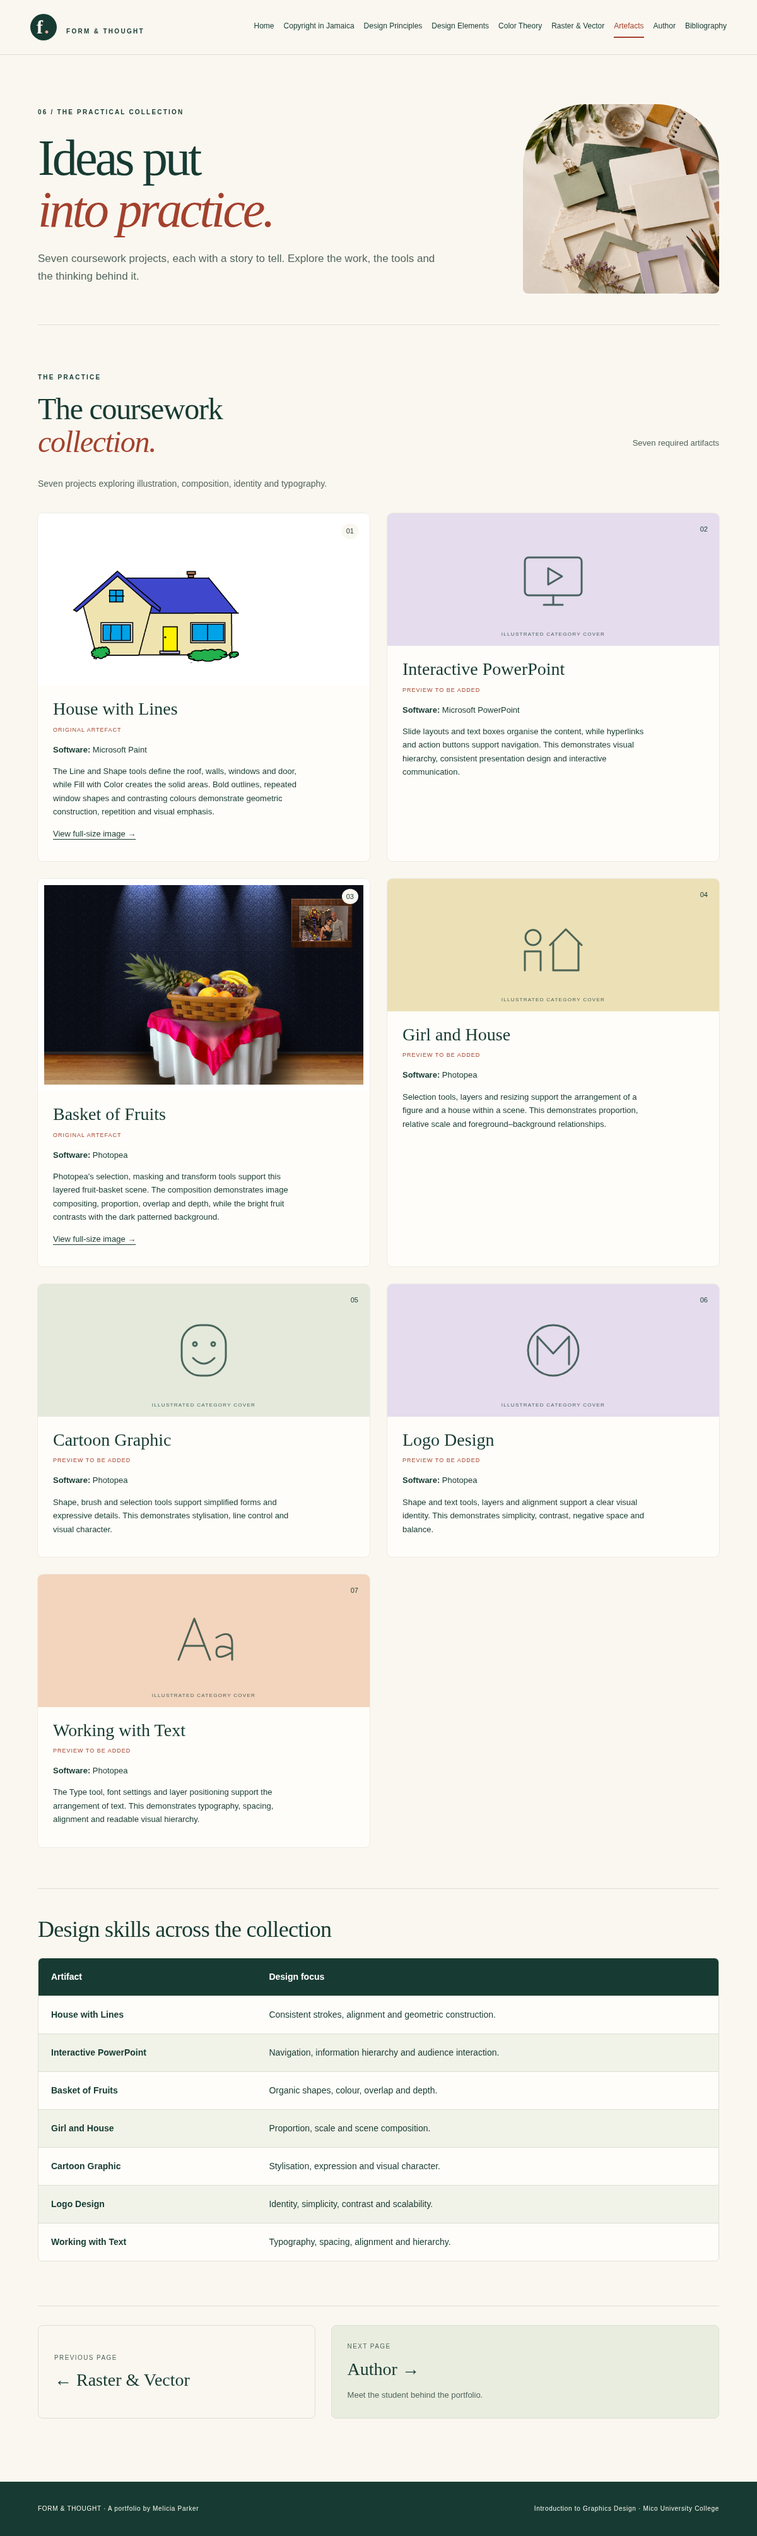
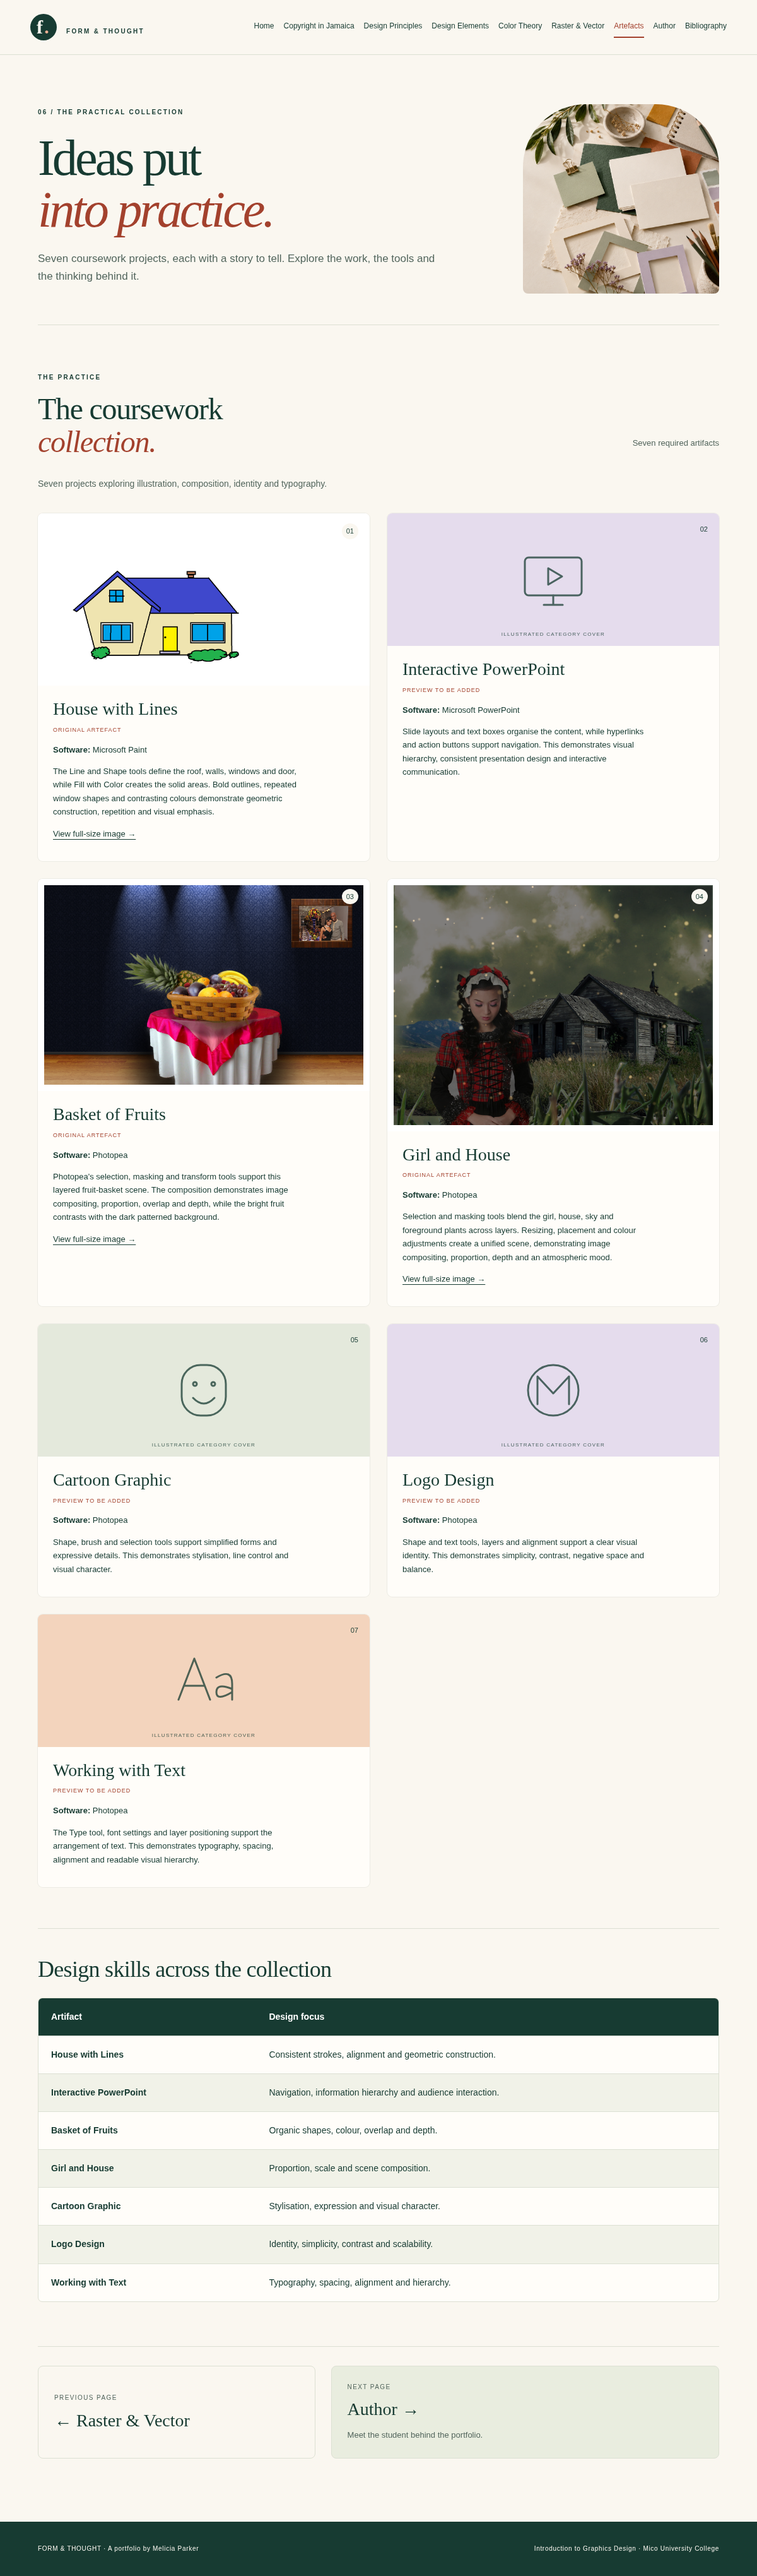
Add Girl and House Photopea artefact

diff --git a/portfolio/artefacts.html b/portfolio/artefacts.html
@@ -1,1 +1,1 @@
-<!doctype html><html lang="en"><head><meta charset="utf-8"><meta name="viewport" content="width=device-width, initial-scale=1"><meta name="description" content="Graphics design portfolio exploring theory and practical coursework."><title>Artefacts · Form &amp; Thought</title><link rel="stylesheet" href="./assets/style.css"><script src="./assets/app.js" defer></script></head><body class="page-artefacts"><a class="skip" href="#main">Skip to content</a><header><a class="brand" href="index.html"><span class="brand-mark" aria-hidden="true">f<span>.</span></span> FORM &amp; THOUGHT</a><button class="menu" aria-controls="navigation" aria-expanded="false">Menu</button><nav id="navigation" aria-label="Main navigation"><a href="index.html">Home</a><a href="copyright.html">Copyright in Jamaica</a><a href="principles.html">Design Principles</a><a href="elements.html">Design Elements</a><a href="color.html">Color Theory</a><a href="raster-vector.html">Raster & Vector</a><a href="artefacts.html" aria-current="page">Artefacts</a><a href="author.html">Author</a><a href="bibliography.html">Bibliography</a></nav></header><main id="main"><section class="page-heading"><div class="page-heading-copy"><p class="eyebrow">06 / THE PRACTICAL COLLECTION</p><h1>Ideas put<br><em>into practice.</em></h1><p class="lede">Seven coursework projects, each with a story to tell. Explore the work, the tools and the thinking behind it.</p></div><figure class="page-photo"><img src="assets/banners/artefacts.png" alt="Blank frames and drawing tools arranged for creative work." width="1672" height="941" decoding="async"></figure></section><section><div class="section-head"><div><p class="eyebrow">THE PRACTICE</p><h2 id="coursework">The coursework<br><em>collection.</em></h2></div><p>Seven required artifacts</p></div><p class="collection-note">Seven projects exploring illustration, composition, identity and typography.</p><div class="artifact-grid"><article class="artifact artifact-uploaded"><a class="artifact-image-link" href="./assets/Melicia%20house%20Intro%20to%20graphics%20activity%201.png" target="_blank" rel="noopener" aria-label="Open House with Lines at full size"><img class="artifact-image" src="./assets/Melicia%20house%20Intro%20to%20graphics%20activity%201.png" alt="House illustration with a blue roof, pale yellow walls, blue windows, a yellow door and green shrubs." width="1574" height="780" loading="lazy" decoding="async"></a><span class="number">01</span><h3>House with Lines</h3><p class="status">Original artefact</p><p class="artifact-software"><strong>Software:</strong> Microsoft Paint</p><p>The Line and Shape tools define the roof, walls, windows and door, while Fill with Color creates the solid areas. Bold outlines, repeated window shapes and contrasting colours demonstrate geometric construction, repetition and visual emphasis.</p><p><a href="./assets/Melicia%20house%20Intro%20to%20graphics%20activity%201.png" target="_blank" rel="noopener">View full-size image &rarr;</a></p></article><article class="artifact"><div class="artifact-cover cover-2"><svg viewBox="0 0 120 120" aria-hidden="true" fill="none" stroke="currentColor" stroke-width="3" stroke-linecap="round" stroke-linejoin="round"><rect x="15" y="25" width="90" height="60" rx="6"/><path d="M45 100h30M60 85v15M52 42l22 13-22 13Z"/></svg><span class="preview-label">Illustrated category cover</span></div><span class="number">02</span><h3>Interactive PowerPoint</h3><p class="status">Preview to be added</p><p class="artifact-software"><strong>Software:</strong> Microsoft PowerPoint</p><p>Slide layouts and text boxes organise the content, while hyperlinks and action buttons support navigation. This demonstrates visual hierarchy, consistent presentation design and interactive communication.</p></article><article class="artifact artifact-uploaded"><a class="artifact-image-link" href="./assets/Final%20Basket%20of%20Fruit%20Artifact.png" target="_blank" rel="noopener" aria-label="Open Basket of Fruits at full size"><img class="artifact-image artifact-image--basket" src="./assets/Final%20Basket%20of%20Fruit%20Artifact.png" alt="Fruit basket arranged on a red-and-white covered table against dark patterned wallpaper, with overhead lighting and a framed photograph." width="1920" height="1200" loading="lazy" decoding="async"></a><span class="number">03</span><h3>Basket of Fruits</h3><p class="status">Original artefact</p><p class="artifact-software"><strong>Software:</strong> Photopea</p><p>Photopea's selection, masking and transform tools support this layered fruit-basket scene. The composition demonstrates image compositing, proportion, overlap and depth, while the bright fruit contrasts with the dark patterned background.</p><p><a href="./assets/Final%20Basket%20of%20Fruit%20Artifact.png" target="_blank" rel="noopener">View full-size image &rarr;</a></p></article><article class="artifact"><div class="artifact-cover cover-4"><svg viewBox="0 0 120 120" aria-hidden="true" fill="none" stroke="currentColor" stroke-width="3" stroke-linecap="round" stroke-linejoin="round"><path d="M55 60l25-25 25 25M60 55v45h40V55M15 100V70h25v30"/><circle cx="28" cy="48" r="12"/></svg><span class="preview-label">Illustrated category cover</span></div><span class="number">04</span><h3>Girl and House</h3><p class="status">Preview to be added</p><p class="artifact-software"><strong>Software:</strong> Photopea</p><p>Selection tools, layers and resizing support the arrangement of a figure and a house within a scene. This demonstrates proportion, relative scale and foreground–background relationships.</p></article><article class="artifact"><div class="artifact-cover cover-5"><svg viewBox="0 0 120 120" aria-hidden="true" fill="none" stroke="currentColor" stroke-width="3" stroke-linecap="round" stroke-linejoin="round"><rect x="25" y="20" width="70" height="80" rx="30"/><circle cx="46" cy="50" r="3"/><circle cx="75" cy="50" r="3"/><path d="M43 72q17 18 34 0"/></svg><span class="preview-label">Illustrated category cover</span></div><span class="number">05</span><h3>Cartoon Graphic</h3><p class="status">Preview to be added</p><p class="artifact-software"><strong>Software:</strong> Photopea</p><p>Shape, brush and selection tools support simplified forms and expressive details. This demonstrates stylisation, line control and visual character.</p></article><article class="artifact"><div class="artifact-cover cover-6"><svg viewBox="0 0 120 120" aria-hidden="true" fill="none" stroke="currentColor" stroke-width="3" stroke-linecap="round" stroke-linejoin="round"><circle cx="60" cy="60" r="40"/><path d="M35 82V38l25 27 25-27v44"/></svg><span class="preview-label">Illustrated category cover</span></div><span class="number">06</span><h3>Logo Design</h3><p class="status">Preview to be added</p><p class="artifact-software"><strong>Software:</strong> Photopea</p><p>Shape and text tools, layers and alignment support a clear visual identity. This demonstrates simplicity, contrast, negative space and balance.</p></article><article class="artifact"><div class="artifact-cover cover-7"><svg viewBox="0 0 120 120" aria-hidden="true" fill="none" stroke="currentColor" stroke-width="3" stroke-linecap="round" stroke-linejoin="round"><path d="M20 90l25-65 25 65M30 68h30M80 55q25-15 25 10v25M105 73q-25-10-25 5t25 0"/></svg><span class="preview-label">Illustrated category cover</span></div><span class="number">07</span><h3>Working with Text</h3><p class="status">Preview to be added</p><p class="artifact-software"><strong>Software:</strong> Photopea</p><p>The Type tool, font settings and layer positioning support the arrangement of text. This demonstrates typography, spacing, alignment and readable visual hierarchy.</p></article></div></section><section class="learning-section"><h2>Design skills across the collection</h2><div class="table-wrap"><table><thead><tr><th scope="col">Artifact</th><th scope="col">Design focus</th></tr></thead><tbody><tr><td>House with Lines</td><td>Consistent strokes, alignment and geometric construction.</td></tr><tr><td>Interactive PowerPoint</td><td>Navigation, information hierarchy and audience interaction.</td></tr><tr><td>Basket of Fruits</td><td>Organic shapes, colour, overlap and depth.</td></tr><tr><td>Girl and House</td><td>Proportion, scale and scene composition.</td></tr><tr><td>Cartoon Graphic</td><td>Stylisation, expression and visual character.</td></tr><tr><td>Logo Design</td><td>Identity, simplicity, contrast and scalability.</td></tr><tr><td>Working with Text</td><td>Typography, spacing, alignment and hierarchy.</td></tr></tbody></table></div></section><nav class="page-journey" aria-label="Page navigation"><a class="journey-back" href="raster-vector.html"><span>Previous page</span><strong>&larr; Raster & Vector</strong></a><a class="journey-next" href="author.html"><span>Next page</span><strong>Author &rarr;</strong><p>Meet the student behind the portfolio.</p></a></nav></main><footer><span>FORM &amp; THOUGHT · A portfolio by Melicia Parker</span><span>Introduction to Graphics Design · Mico University College</span></footer></body></html>
+<!doctype html><html lang="en"><head><meta charset="utf-8"><meta name="viewport" content="width=device-width, initial-scale=1"><meta name="description" content="Graphics design portfolio exploring theory and practical coursework."><title>Artefacts · Form &amp; Thought</title><link rel="stylesheet" href="./assets/style.css"><script src="./assets/app.js" defer></script></head><body class="page-artefacts"><a class="skip" href="#main">Skip to content</a><header><a class="brand" href="index.html"><span class="brand-mark" aria-hidden="true">f<span>.</span></span> FORM &amp; THOUGHT</a><button class="menu" aria-controls="navigation" aria-expanded="false">Menu</button><nav id="navigation" aria-label="Main navigation"><a href="index.html">Home</a><a href="copyright.html">Copyright in Jamaica</a><a href="principles.html">Design Principles</a><a href="elements.html">Design Elements</a><a href="color.html">Color Theory</a><a href="raster-vector.html">Raster & Vector</a><a href="artefacts.html" aria-current="page">Artefacts</a><a href="author.html">Author</a><a href="bibliography.html">Bibliography</a></nav></header><main id="main"><section class="page-heading"><div class="page-heading-copy"><p class="eyebrow">06 / THE PRACTICAL COLLECTION</p><h1>Ideas put<br><em>into practice.</em></h1><p class="lede">Seven coursework projects, each with a story to tell. Explore the work, the tools and the thinking behind it.</p></div><figure class="page-photo"><img src="assets/banners/artefacts.png" alt="Blank frames and drawing tools arranged for creative work." width="1672" height="941" decoding="async"></figure></section><section><div class="section-head"><div><p class="eyebrow">THE PRACTICE</p><h2 id="coursework">The coursework<br><em>collection.</em></h2></div><p>Seven required artifacts</p></div><p class="collection-note">Seven projects exploring illustration, composition, identity and typography.</p><div class="artifact-grid"><article class="artifact artifact-uploaded"><a class="artifact-image-link" href="./assets/Melicia%20house%20Intro%20to%20graphics%20activity%201.png" target="_blank" rel="noopener" aria-label="Open House with Lines at full size"><img class="artifact-image" src="./assets/Melicia%20house%20Intro%20to%20graphics%20activity%201.png" alt="House illustration with a blue roof, pale yellow walls, blue windows, a yellow door and green shrubs." width="1574" height="780" loading="lazy" decoding="async"></a><span class="number">01</span><h3>House with Lines</h3><p class="status">Original artefact</p><p class="artifact-software"><strong>Software:</strong> Microsoft Paint</p><p>The Line and Shape tools define the roof, walls, windows and door, while Fill with Color creates the solid areas. Bold outlines, repeated window shapes and contrasting colours demonstrate geometric construction, repetition and visual emphasis.</p><p><a href="./assets/Melicia%20house%20Intro%20to%20graphics%20activity%201.png" target="_blank" rel="noopener">View full-size image &rarr;</a></p></article><article class="artifact"><div class="artifact-cover cover-2"><svg viewBox="0 0 120 120" aria-hidden="true" fill="none" stroke="currentColor" stroke-width="3" stroke-linecap="round" stroke-linejoin="round"><rect x="15" y="25" width="90" height="60" rx="6"/><path d="M45 100h30M60 85v15M52 42l22 13-22 13Z"/></svg><span class="preview-label">Illustrated category cover</span></div><span class="number">02</span><h3>Interactive PowerPoint</h3><p class="status">Preview to be added</p><p class="artifact-software"><strong>Software:</strong> Microsoft PowerPoint</p><p>Slide layouts and text boxes organise the content, while hyperlinks and action buttons support navigation. This demonstrates visual hierarchy, consistent presentation design and interactive communication.</p></article><article class="artifact artifact-uploaded"><a class="artifact-image-link" href="./assets/Final%20Basket%20of%20Fruit%20Artifact.png" target="_blank" rel="noopener" aria-label="Open Basket of Fruits at full size"><img class="artifact-image artifact-image--basket" src="./assets/Final%20Basket%20of%20Fruit%20Artifact.png" alt="Fruit basket arranged on a red-and-white covered table against dark patterned wallpaper, with overhead lighting and a framed photograph." width="1920" height="1200" loading="lazy" decoding="async"></a><span class="number">03</span><h3>Basket of Fruits</h3><p class="status">Original artefact</p><p class="artifact-software"><strong>Software:</strong> Photopea</p><p>Photopea's selection, masking and transform tools support this layered fruit-basket scene. The composition demonstrates image compositing, proportion, overlap and depth, while the bright fruit contrasts with the dark patterned background.</p><p><a href="./assets/Final%20Basket%20of%20Fruit%20Artifact.png" target="_blank" rel="noopener">View full-size image &rarr;</a></p></article><article class="artifact artifact-uploaded"><a class="artifact-image-link" href="./assets/Girl%20and%20the%20House%20Artifact.png" target="_blank" rel="noopener" aria-label="Open Girl and House at full size"><img class="artifact-image artifact-image--scene" src="./assets/Girl%20and%20the%20House%20Artifact.png" alt="Composite scene with a girl in the foreground, a weathered house, tall grass and an atmospheric green-grey sky with glowing light effects." width="800" height="600" loading="lazy" decoding="async"></a><span class="number">04</span><h3>Girl and House</h3><p class="status">Original artefact</p><p class="artifact-software"><strong>Software:</strong> Photopea</p><p>Selection and masking tools blend the girl, house, sky and foreground plants across layers. Resizing, placement and colour adjustments create a unified scene, demonstrating image compositing, proportion, depth and an atmospheric mood.</p><p><a href="./assets/Girl%20and%20the%20House%20Artifact.png" target="_blank" rel="noopener">View full-size image &rarr;</a></p></article><article class="artifact"><div class="artifact-cover cover-5"><svg viewBox="0 0 120 120" aria-hidden="true" fill="none" stroke="currentColor" stroke-width="3" stroke-linecap="round" stroke-linejoin="round"><rect x="25" y="20" width="70" height="80" rx="30"/><circle cx="46" cy="50" r="3"/><circle cx="75" cy="50" r="3"/><path d="M43 72q17 18 34 0"/></svg><span class="preview-label">Illustrated category cover</span></div><span class="number">05</span><h3>Cartoon Graphic</h3><p class="status">Preview to be added</p><p class="artifact-software"><strong>Software:</strong> Photopea</p><p>Shape, brush and selection tools support simplified forms and expressive details. This demonstrates stylisation, line control and visual character.</p></article><article class="artifact"><div class="artifact-cover cover-6"><svg viewBox="0 0 120 120" aria-hidden="true" fill="none" stroke="currentColor" stroke-width="3" stroke-linecap="round" stroke-linejoin="round"><circle cx="60" cy="60" r="40"/><path d="M35 82V38l25 27 25-27v44"/></svg><span class="preview-label">Illustrated category cover</span></div><span class="number">06</span><h3>Logo Design</h3><p class="status">Preview to be added</p><p class="artifact-software"><strong>Software:</strong> Photopea</p><p>Shape and text tools, layers and alignment support a clear visual identity. This demonstrates simplicity, contrast, negative space and balance.</p></article><article class="artifact"><div class="artifact-cover cover-7"><svg viewBox="0 0 120 120" aria-hidden="true" fill="none" stroke="currentColor" stroke-width="3" stroke-linecap="round" stroke-linejoin="round"><path d="M20 90l25-65 25 65M30 68h30M80 55q25-15 25 10v25M105 73q-25-10-25 5t25 0"/></svg><span class="preview-label">Illustrated category cover</span></div><span class="number">07</span><h3>Working with Text</h3><p class="status">Preview to be added</p><p class="artifact-software"><strong>Software:</strong> Photopea</p><p>The Type tool, font settings and layer positioning support the arrangement of text. This demonstrates typography, spacing, alignment and readable visual hierarchy.</p></article></div></section><section class="learning-section"><h2>Design skills across the collection</h2><div class="table-wrap"><table><thead><tr><th scope="col">Artifact</th><th scope="col">Design focus</th></tr></thead><tbody><tr><td>House with Lines</td><td>Consistent strokes, alignment and geometric construction.</td></tr><tr><td>Interactive PowerPoint</td><td>Navigation, information hierarchy and audience interaction.</td></tr><tr><td>Basket of Fruits</td><td>Organic shapes, colour, overlap and depth.</td></tr><tr><td>Girl and House</td><td>Proportion, scale and scene composition.</td></tr><tr><td>Cartoon Graphic</td><td>Stylisation, expression and visual character.</td></tr><tr><td>Logo Design</td><td>Identity, simplicity, contrast and scalability.</td></tr><tr><td>Working with Text</td><td>Typography, spacing, alignment and hierarchy.</td></tr></tbody></table></div></section><nav class="page-journey" aria-label="Page navigation"><a class="journey-back" href="raster-vector.html"><span>Previous page</span><strong>&larr; Raster & Vector</strong></a><a class="journey-next" href="author.html"><span>Next page</span><strong>Author &rarr;</strong><p>Meet the student behind the portfolio.</p></a></nav></main><footer><span>FORM &amp; THOUGHT · A portfolio by Melicia Parker</span><span>Introduction to Graphics Design · Mico University College</span></footer></body></html>

diff --git a/portfolio/assets/style.css b/portfolio/assets/style.css
@@ -117,3 +117,5 @@ footer{background:var(--ink);color:var(--paper);border:0;font-size:10px;padding:
 .artifact-image-link{display:flex;align-items:center;justify-content:center;background:white;min-height:210px;padding:10px}.artifact-image{display:block;width:100%;height:auto;aspect-ratio:2/1;object-fit:contain}.artifact-uploaded>.number{background:var(--paper);border-radius:50%;padding:3px 7px}.artifact-software{color:var(--ink)}
 
 .artifact-image--basket{aspect-ratio:8/5}
+
+.artifact-image--scene{aspect-ratio:4/3}

diff --git a/portfolio/GOOGLE_SITES_CONTENT.md b/portfolio/GOOGLE_SITES_CONTENT.md
@@ -478,9 +478,9 @@ Photopea's selection, masking and transform tools support this layered fruit-bas
 
 **Software:** Photopea
 
-Selection tools, layers and resizing support the arrangement of a figure and a house within a scene. This demonstrates proportion, relative scale and foreground–background relationships.
+Selection and masking tools blend the girl, house, sky and foreground plants across layers. Resizing, placement and colour adjustments create a unified scene, demonstrating image compositing, proportion, depth and an atmospheric mood.
 
-Preview to be added.
+![Girl and House](assets/Girl%20and%20the%20House%20Artifact.png)
 
 ### Cartoon Graphic
 
